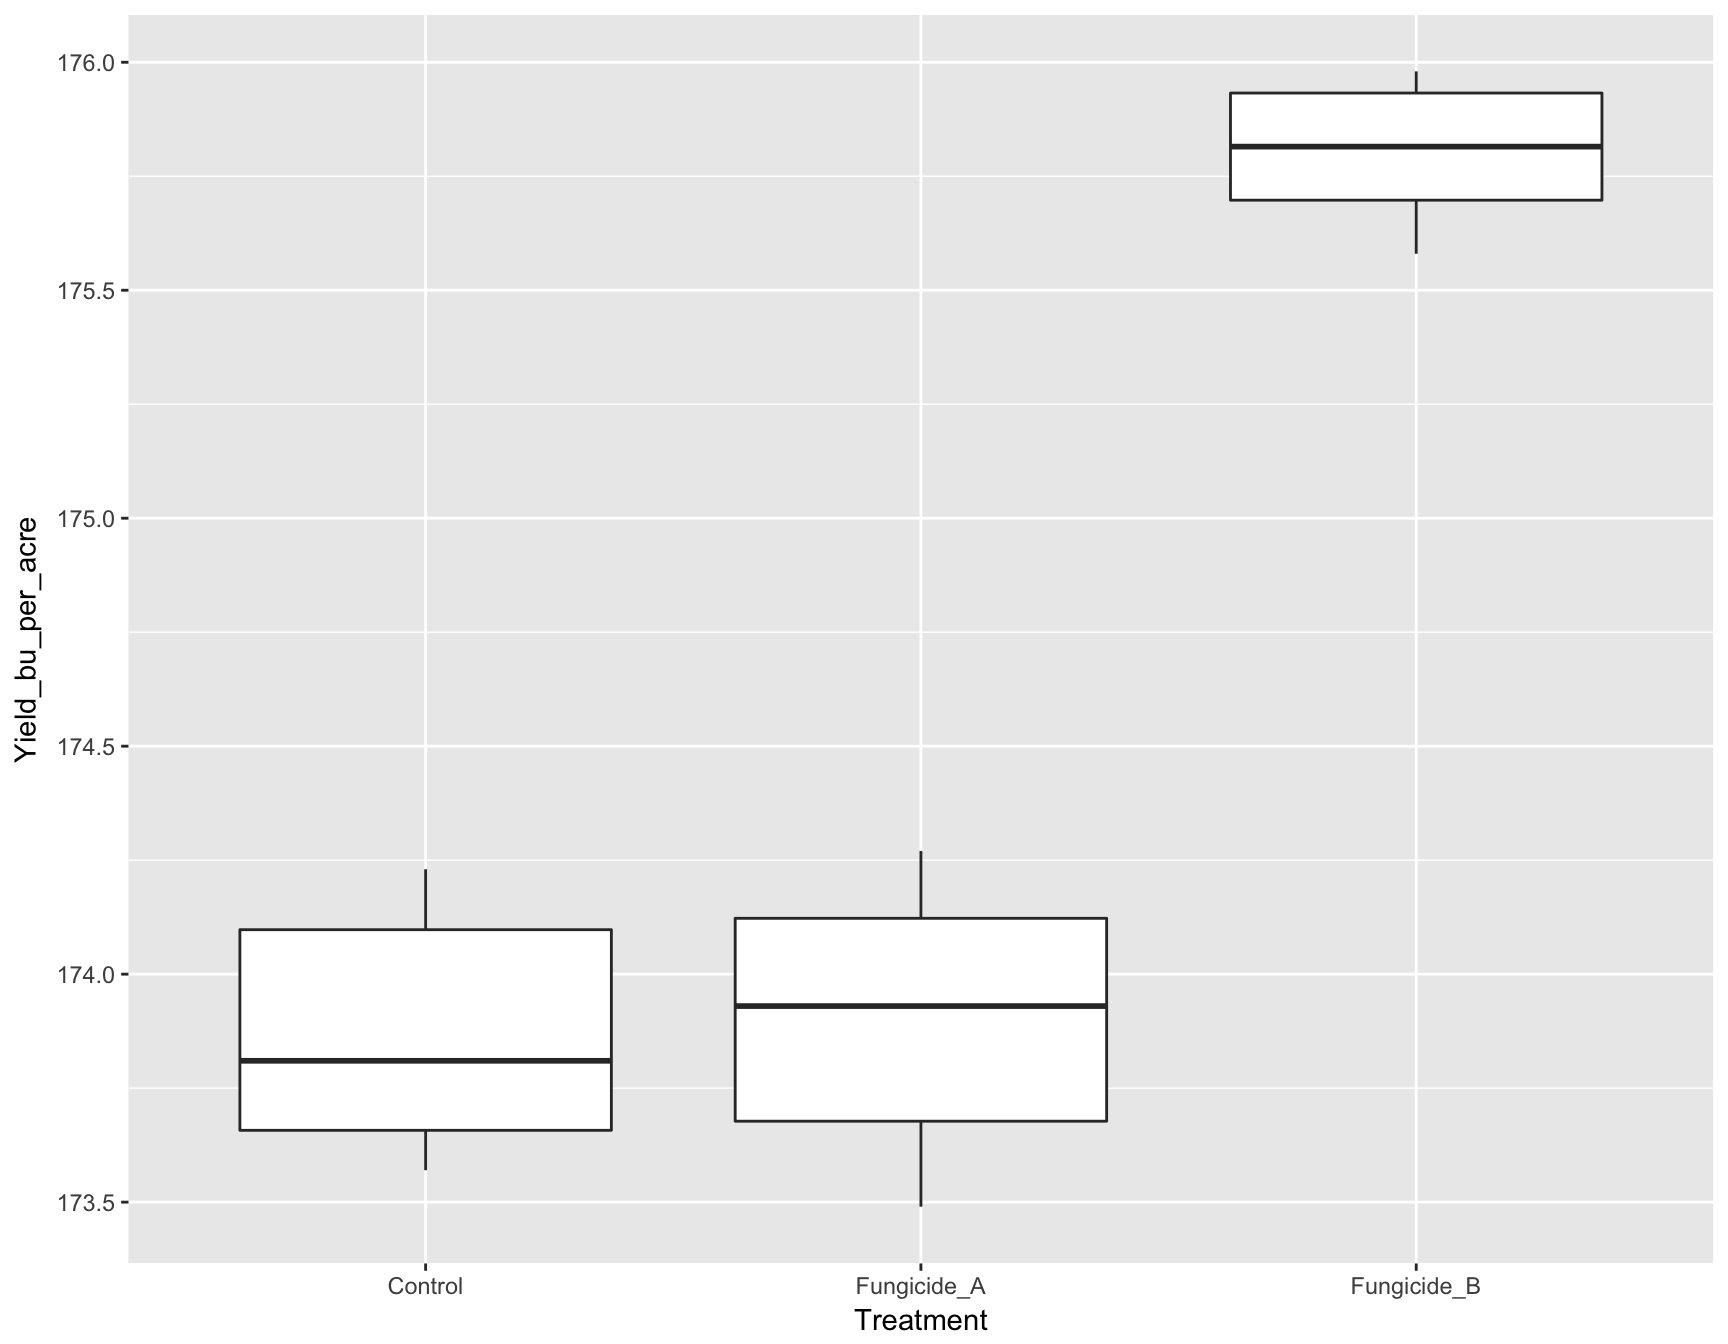
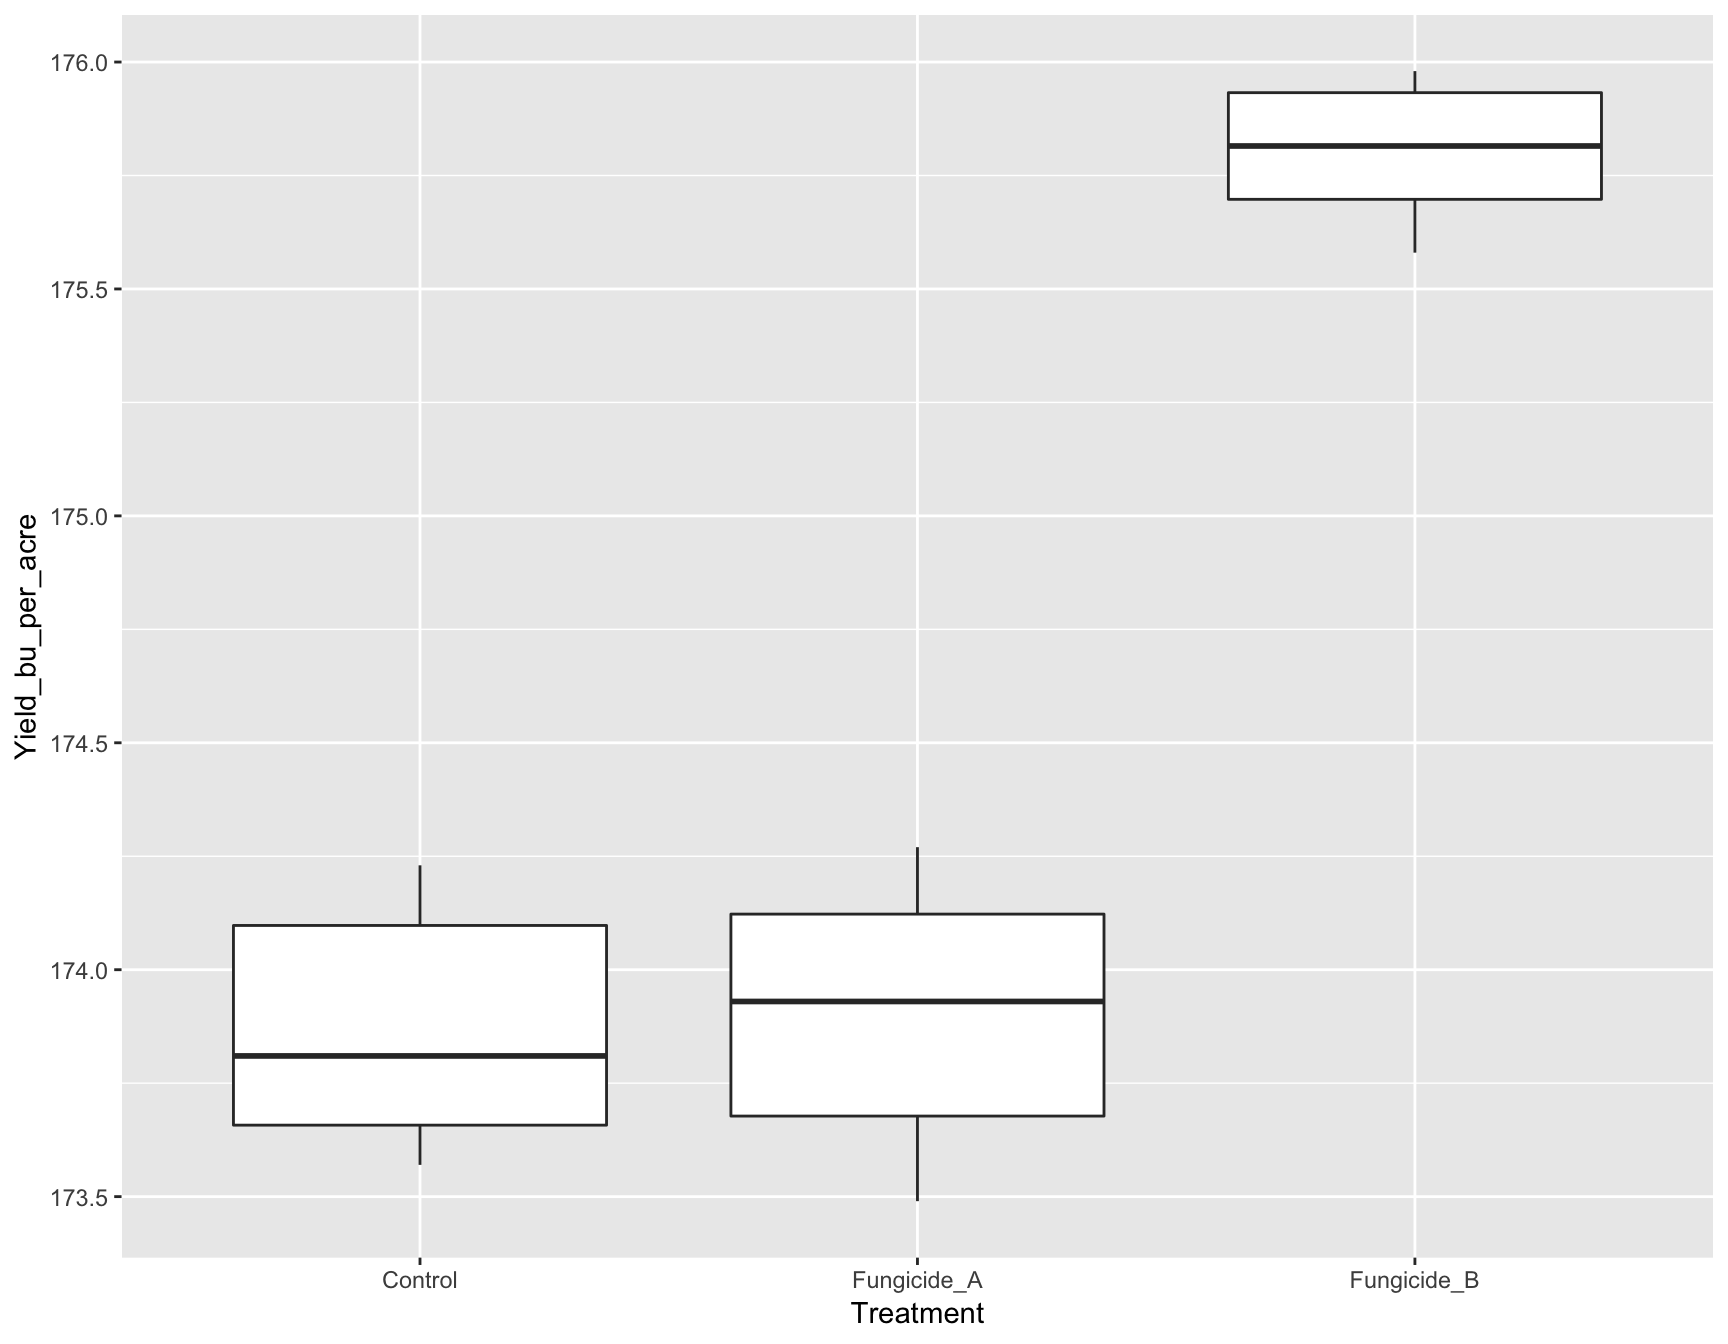
adding tukey's annotation instructions

diff --git a/docs/Part3-Visualization.html b/docs/Part3-Visualization.html
@@ -355,8 +355,11 @@ div.tocify {
 <div id="getting-started" class="section level3">
 <h3>Getting started</h3>
 <pre class="r"><code>&gt; install.packages(&quot;ggplot2&quot;)</code></pre>
+<pre><code>Installing package into &#39;/Users/kaitlinmorey/Library/R/3.4/library&#39;
+(as &#39;lib&#39; is unspecified)</code></pre>
 <pre><code>Error in contrib.url(repos, &quot;source&quot;): trying to use CRAN without setting a mirror</code></pre>
 <pre class="r"><code>&gt; library(&quot;ggplot2&quot;)</code></pre>
+<pre><code>Warning: package &#39;ggplot2&#39; was built under R version 3.4.4</code></pre>
 <pre class="r"><code>&gt; fungicide &lt;- read.csv(&quot;data/fungicide_dat.csv&quot;)</code></pre>
 <pre class="r"><code>&gt; stop(&quot;
 +      What visualization might be appropriate for these data?
@@ -435,13 +438,39 @@ we can do this by adding <code>geom_boxplot(fill = &quot;orange&quot;)</code>.</
 <p><img src="Part3-Visualization_files/figure-html/unnamed-chunk-12-1.png" width="100%" style="display: block; margin: auto;" /></p>
 <pre class="r"><code>&gt; (yield.plot &lt;- yield.plot + ylab(&quot;Yield (bu/acre)&quot;))</code></pre>
 <p><img src="Part3-Visualization_files/figure-html/unnamed-chunk-12-2.png" width="100%" style="display: block; margin: auto;" /></p>
-<p>The labels are now okay, but it’s still not publication-ready. The font is too small, the background should have no gridlines and the axis text needs to be darker.</p>
+<p>The labels are now okay, but it’s still not publication-ready. The font is too small, the background should have no gridlines and the axis text needs to be darker. We also want to include the results of our ANOVA and Tukey’s HSD.</p>
+<pre class="r"><code>&gt; #</code></pre>
+</div>
+<div id="annotating-with-tukeys-hsd-letters" class="section level3">
+<h3>Annotating with Tukey’s HSD letters</h3>
+<p>Remember that ‘Fungicide_B’ is signfificantly different from both ‘Fungicide_A’ and ‘Control’. ‘Fungicide_A’ and ‘Control’ are not signficantly different from each other. If we want to include stars or letters indicating significant differences we can use ‘annotate()’.</p>
+<pre class="r"><code>&gt; #
+&gt; TukeyHSD(fit_yield)</code></pre>
+<pre><code>Error in TukeyHSD(fit_yield): object &#39;fit_yield&#39; not found</code></pre>
+<pre class="r"><code>&gt; #
+&gt; #</code></pre>
+<p>With Letters</p>
+<pre class="r"><code>&gt; (yield.plot &lt;- yield.plot + annotate(&quot;text&quot;, x=&quot;Control&quot;, y= 174.5, label=&quot;A&quot;, size=5) +
++                             annotate(&quot;text&quot;, x=&quot;Fungicide_A&quot;, y= 174.5, label=&quot;A&quot;, size=5)+
++                             annotate(&quot;text&quot;, x=&quot;Fungicide_B&quot;, y= 176.25, label=&quot;B&quot;, size=5))</code></pre>
+<p><img src="Part3-Visualization_files/figure-html/unnamed-chunk-15-1.png" width="100%" style="display: block; margin: auto;" /></p>
+<pre class="r"><code>&gt; #</code></pre>
+<p>With stars</p>
+<pre class="r"><code>&gt; (yield.plot &lt;- yield.plot + annotate(&quot;text&quot;, x=&quot;Fungicide_B&quot;, y= 176.25, label=&quot;*&quot;, size=10))</code></pre>
+<p><img src="Part3-Visualization_files/figure-html/unnamed-chunk-17-1.png" width="100%" style="display: block; margin: auto;" /></p>
+<pre class="r"><code>&gt; #</code></pre>
+<p>If we want to include a caption explaining what our annotations mean we can use ‘labs()’. We can also use this function to add subtitles, titles, or x and y labels.</p>
+<pre class="r"><code>&gt; #
+&gt; (yield.plot &lt;- yield.plot + annotate(&quot;text&quot;, x=&quot;Fungicide_B&quot;, y= 176.25, label=&quot;*&quot;, size=10) +
++                             labs(caption=&quot;* indicates significant difference by Tukey&#39;s HSD &lt;0.01&quot;))</code></pre>
+<p><img src="Part3-Visualization_files/figure-html/unnamed-chunk-18-1.png" width="100%" style="display: block; margin: auto;" /></p>
+<pre class="r"><code>&gt; #</code></pre>
 </div>
 <div id="adjusting-look-and-feel-theme" class="section level3">
 <h3>Adjusting Look and Feel (theme)</h3>
 <p>The first thing we can do is change the default theme from <code>theme_grey()</code> to <code>theme_bw()</code>. We will simultaneously set the base size of the font to be 14pt.</p>
 <pre class="r"><code>&gt; (yield.plot &lt;- yield.plot + theme_bw(base_size = 14))</code></pre>
-<p><img src="Part3-Visualization_files/figure-html/unnamed-chunk-13-1.png" width="100%" style="display: block; margin: auto;" /></p>
+<p><img src="Part3-Visualization_files/figure-html/unnamed-chunk-19-1.png" width="100%" style="display: block; margin: auto;" /></p>
 <p>There are many different default themes available for ggplot2 objects that change many aspects of the look and feel. The <em>ggthemes</em> contains many popular themes such as fivethirtyeight and economist. Of course, we can make it prettier before including it in our final manuscript.</p>
 <p>To adjust granular aspects of the theme, we can use the <code>theme()</code> function, which contains a whopping 71 different options all related to the layout of the non-data aspects of the plot.</p>
 <pre class="r"><code>&gt; ?theme</code></pre>
@@ -457,16 +486,16 @@ we can do this by adding <code>geom_boxplot(fill = &quot;orange&quot;)</code>.</
      </code></pre>
 <p>When we inspect the help page of the <code>theme()</code> function, we can find out how to adjust several parameters to make out plot look acceptable:</p>
 <pre class="r"><code>&gt; (yield.plot &lt;- yield.plot + theme(aspect.ratio = 1)) # This looks the same</code></pre>
-<p><img src="Part3-Visualization_files/figure-html/unnamed-chunk-16-1.png" width="100%" style="display: block; margin: auto;" /></p>
+<p><img src="Part3-Visualization_files/figure-html/unnamed-chunk-22-1.png" width="100%" style="display: block; margin: auto;" /></p>
 <pre class="r"><code>&gt; (yield.plot &lt;- yield.plot + theme(aspect.ratio = 2)) # This is too skinny</code></pre>
-<p><img src="Part3-Visualization_files/figure-html/unnamed-chunk-16-2.png" width="100%" style="display: block; margin: auto;" /></p>
+<p><img src="Part3-Visualization_files/figure-html/unnamed-chunk-22-2.png" width="100%" style="display: block; margin: auto;" /></p>
 <pre class="r"><code>&gt; (yield.plot &lt;- yield.plot + theme(aspect.ratio = 1.25)) # I think this is perfect!</code></pre>
-<p><img src="Part3-Visualization_files/figure-html/unnamed-chunk-16-3.png" width="100%" style="display: block; margin: auto;" /></p>
+<p><img src="Part3-Visualization_files/figure-html/unnamed-chunk-22-3.png" width="100%" style="display: block; margin: auto;" /></p>
 <pre class="r"><code>&gt; (yield.plot &lt;- yield.plot + theme(panel.grid = element_blank()))</code></pre>
-<p><img src="Part3-Visualization_files/figure-html/unnamed-chunk-16-4.png" width="100%" style="display: block; margin: auto;" /></p>
+<p><img src="Part3-Visualization_files/figure-html/unnamed-chunk-22-4.png" width="100%" style="display: block; margin: auto;" /></p>
 <p>Since the information in the legend is repetitive, we can remove it. If you ‘Google’ how to remove the legend in ggplot2, you will find that you can use <code>guides(fill=FALSE)</code>.</p>
 <pre class="r"><code>&gt; (yield.plot &lt;- yield.plot + guides(fill=FALSE))</code></pre>
-<p><img src="Part3-Visualization_files/figure-html/unnamed-chunk-17-1.png" width="100%" style="display: block; margin: auto;" /></p>
+<p><img src="Part3-Visualization_files/figure-html/unnamed-chunk-23-1.png" width="100%" style="display: block; margin: auto;" /></p>
 </div>
 <div id="putting-it-all-together" class="section level3">
 <h3>Putting it all together</h3>
@@ -476,12 +505,14 @@ we can do this by adding <code>geom_boxplot(fill = &quot;orange&quot;)</code>.</
 +   ggtitle(&quot;Effect of Fungicides on Yield&quot;) +
 +   xlab(&quot;Treatment Applied&quot;) +
 +   ylab(&quot;Yield (bu/acre)&quot;) +
++   annotate(&quot;text&quot;, x=&quot;Fungicide_B&quot;, y= 176, label=&quot;*&quot;, size=10) +
++   labs(caption=&quot;* indicates significant difference by Tukey&#39;s HSD &lt;0.01&quot;) +
 +   theme_bw(base_size = 14) +
 +   theme(aspect.ratio = 1.25) +
 +   theme(panel.grid = element_blank()) +
 +   guides(fill=FALSE)
 &gt; yield.plot</code></pre>
-<p><img src="Part3-Visualization_files/figure-html/unnamed-chunk-18-1.png" width="100%" style="display: block; margin: auto;" /></p>
+<p><img src="Part3-Visualization_files/figure-html/unnamed-chunk-24-1.png" width="100%" style="display: block; margin: auto;" /></p>
 <p>We can now create a similar plot for Severity Data.</p>
 <pre class="r"><code>&gt; severity.plot &lt;- ggplot(fungicide, aes(x = Treatment, y = Severity)) +
 +   geom_boxplot() +
@@ -490,12 +521,16 @@ we can do this by adding <code>geom_boxplot(fill = &quot;orange&quot;)</code>.</
 +   theme(aspect.ratio = 1.5) +
 +   theme(panel.grid = element_blank()) +
 +   xlab(&quot;Treatment Applied&quot;) +
-+   ylab(&quot;Disease Severity&quot;)
++   ylab(&quot;Disease Severity&quot;) +
++   annotate(&quot;text&quot;, x=&quot;Control&quot;, y= 5.75, label=&quot;a&quot;, size=5) +
++   annotate(&quot;text&quot;, x=&quot;Fungicide_A&quot;, y= 5.35, label=&quot;b&quot;, size=5)+
++   annotate(&quot;text&quot;, x=&quot;Fungicide_B&quot;, y= 4.35, label=&quot;c&quot;, size=5) +
++   labs(caption=&quot;letters indicates significant differences by Tukey&#39;s HSD &lt;0.01&quot;) 
 &gt; severity.plot</code></pre>
-<p><img src="Part3-Visualization_files/figure-html/unnamed-chunk-19-1.png" width="100%" style="display: block; margin: auto;" /></p>
+<p><img src="Part3-Visualization_files/figure-html/unnamed-chunk-25-1.png" width="100%" style="display: block; margin: auto;" /></p>
 <p>The text of the title is not in the center. To format text elements of the plot, we can use the function <code>element_text()</code> inside <code>theme()</code>. Since we need to edit the text of the plot title, we need to specify <code>plot.title = element_text()</code>. Since we need to adjust the text horizontally in the center, we modify it to <code>theme(plot.title = element_text(hjust = 0.5))</code>.</p>
-<pre class="r"><code>&gt; (severity.plot &lt;- severity.plot + theme(plot.title = element_text(hjust = 0.5)))</code></pre>
-<p><img src="Part3-Visualization_files/figure-html/unnamed-chunk-20-1.png" width="100%" style="display: block; margin: auto;" /></p>
+<pre class="r"><code>&gt; (severity.plot &lt;- severity.plot + theme(plot.title = element_text(hjust = 0.5), plot.caption=element_text(hjust=.5)))</code></pre>
+<p><img src="Part3-Visualization_files/figure-html/unnamed-chunk-26-1.png" width="100%" style="display: block; margin: auto;" /></p>
 </div>
 </div>
 <div id="step-2-saving-our-plot" class="section level2">

diff --git a/docs/Part2-Analysis.html b/docs/Part2-Analysis.html
@@ -347,18 +347,23 @@ div.tocify {
 <h2>Step 1: Working Directories</h2>
 <p>A working directory is the folder on your computer where you are currently working. You can find out your current working directory by typing <code>getwd()</code></p>
 <pre class="r"><code>&gt; getwd()</code></pre>
-<pre><code>[1] &quot;/Users/nikitagambhir/Desktop/IntroR_Workshop&quot;</code></pre>
+<pre><code>[1] &quot;/Users/kaitlinmorey/Dropbox/GRAD SCHOOL/Intro to R Workshop 2018/IntroR_Workshop-master&quot;</code></pre>
 <p>If you’ve downloaded and un-zipped this directory to your desktop, you might see something like <code>/Users/&lt;yourname&gt;/Desktop/IntroR_Workshop</code>. This is the<br />
 default place where R will begin reading and writing files. For example, you<br />
 can use the function <code>list.files()</code> to view the files in your current working directory. These are the same files that we downloaded earlier. If you’re using Rstudio, you can compare the file list with the “Files” tab in the bottom right panel.</p>
 <p>In order to use <code>list.files()</code>, we should provide it with a file path. We can provide it a “.”, which means “here” to most computer programs.</p>
 <pre class="r"><code>&gt; list.files(&quot;.&quot;)</code></pre>
-<pre><code>[1] &quot;data&quot;                  &quot;docs&quot;                  &quot;IntroR_Workshop.Rproj&quot;
-[4] &quot;LICENSE&quot;               &quot;Makefile&quot;              &quot;Part1-Introduction.R&quot; 
-[7] &quot;Part2-Analysis.R&quot;      &quot;Part3-Visualization.R&quot; &quot;README.md&quot;            </code></pre>
+<pre><code> [1] &quot;data&quot;                      &quot;docs&quot;                     
+ [3] &quot;IntroR_Workshop.Rproj&quot;     &quot;LICENSE&quot;                  
+ [5] &quot;Makefile&quot;                  &quot;Part1-Introduction.R&quot;     
+ [7] &quot;Part2-Analysis.R&quot;          &quot;Part3-Visualization.R&quot;    
+ [9] &quot;README.md&quot;                 &quot;wordcloud experience.jpeg&quot;
+[11] &quot;wordcloud.jpeg&quot;            &quot;wordcloud.R&quot;              </code></pre>
 <p>You can see that the first entry in here is “data”. This is where we’ve placed the fungicide example data.</p>
 <pre class="r"><code>&gt; list.files(&quot;data&quot;)</code></pre>
-<pre><code>[1] &quot;fungicide_dat.csv&quot; &quot;README.md&quot;        </code></pre>
+<pre><code>[1] &quot;fungicide_dat.csv&quot;                                  
+[2] &quot;Intro to R for Plant Pathologists Workshop RSVP.csv&quot;
+[3] &quot;README.md&quot;                                          </code></pre>
 </div>
 <div id="step-2-reading-in-data" class="section level2">
 <h2>Step 2: Reading in Data</h2>
@@ -489,9 +494,12 @@ can use the function <code>list.files()</code> to view the files in your current
 <h2>Step 3: Advanced data manipulation</h2>
 <p>The package ‘dplyr’ provides functions for easy and advanced data manipulation. If we want to use it, we can download the package to our computer with the function <code>install.packages()</code>. This will install a package from CRAN and place it into your R <em>Library</em>.</p>
 <pre class="r"><code>&gt; install.packages(&quot;dplyr&quot;)</code></pre>
+<pre><code>Installing package into &#39;/Users/kaitlinmorey/Library/R/3.4/library&#39;
+(as &#39;lib&#39; is unspecified)</code></pre>
 <pre><code>Error in contrib.url(repos, &quot;source&quot;): trying to use CRAN without setting a mirror</code></pre>
 <p>To load this package, we can use the function <code>library()</code>.</p>
 <pre class="r"><code>&gt; library(&quot;dplyr&quot;)</code></pre>
+<pre><code>Warning: package &#39;dplyr&#39; was built under R version 3.4.4</code></pre>
 <pre><code>
 Attaching package: &#39;dplyr&#39;</code></pre>
 <pre><code>The following objects are masked from &#39;package:stats&#39;:
@@ -511,6 +519,7 @@ Attaching package: &#39;dplyr&#39;</code></pre>
 <p>We can also use the function <code>mutate()</code> from ‘dplyr’. This adds a new variable using existing variables. The usage of this function is as:</p>
 <p>mutate(data, new_variable_name = calculation_based_upon_existing_variables)</p>
 <pre class="r"><code>&gt; fungicide_1 &lt;- mutate(fungicide, Yield_kg_per_ha = Yield_bu_per_acre*62.77)</code></pre>
+<pre><code>Warning: package &#39;bindrcpp&#39; was built under R version 3.4.4</code></pre>
 <blockquote>
 <p>Note: We did not have to use fungicide$Yield_bu_per_acre.</p>
 </blockquote>
@@ -620,6 +629,11 @@ Attaching package: &#39;dplyr&#39;</code></pre>
 2 Fungicide_A     10916.
 3 Fungicide_B     11035.</code></pre>
 <pre class="r"><code>&gt; View(yield_summary)</code></pre>
+<pre><code>Warning in View(yield_summary): unable to load shared object &#39;/Library/Frameworks/R.framework/Resources/modules//R_de.so&#39;:
+  dlopen(/Library/Frameworks/R.framework/Resources/modules//R_de.so, 6): Library not loaded: /opt/X11/lib/libpixman-1.0.dylib
+  Referenced from: /Library/Frameworks/R.framework/Resources/modules//R_de.so
+  Reason: Incompatible library version: R_de.so requires version 35.0.0 or later, but libpixman-1.0.dylib provides version 33.0.0</code></pre>
+<pre><code>Error in View(yield_summary): X11 dataentry cannot be loaded</code></pre>
 <p>We answered our first question!</p>
 <p>You will notice that on the console below, the code for creating <code>yield_summary</code> has <code>+</code> signs before every line. The plus signs just indicate that R is waiting for the code to be finished. This sign also appears when we forget to put a closing paranthesis ‘)’. Try this:</p>
 <pre class="r"><code>&gt; str(yield_summary
@@ -739,7 +753,7 @@ $Treatment
 Fungicide_A-Control     0.030000 -0.3557208 0.4157208 0.977785
 Fungicide_B-Control     1.933333  1.5476125 2.3190542 0.000000
 Fungicide_B-Fungicide_A 1.903333  1.5176125 2.2890542 0.000000</code></pre>
-<p>There is no difference between ‘Fungicide_A’ and ‘Control’ as the p-value is 0.978 (&gt;0.05).</p>
+<p>There is no difference between ‘Fungicide_A’ and ‘Control’ as the p-value is 0.978 (&gt;0.05). There is a significant difference between ‘Fungicide_B’ and both ‘Fungicide_A’ and ‘Control’ as the p-value is &lt;0.05.</p>
 <p>Let’s do similar analysis using the Severity data</p>
 <pre class="r"><code>&gt; fit_severity &lt;- aov(formula=Severity ~ Treatment, data=fungicide)
 &gt; summary(fit_severity) # p-value is less than 0.05, so let&#39;s do Tukey&#39;s post-hoc test</code></pre>
